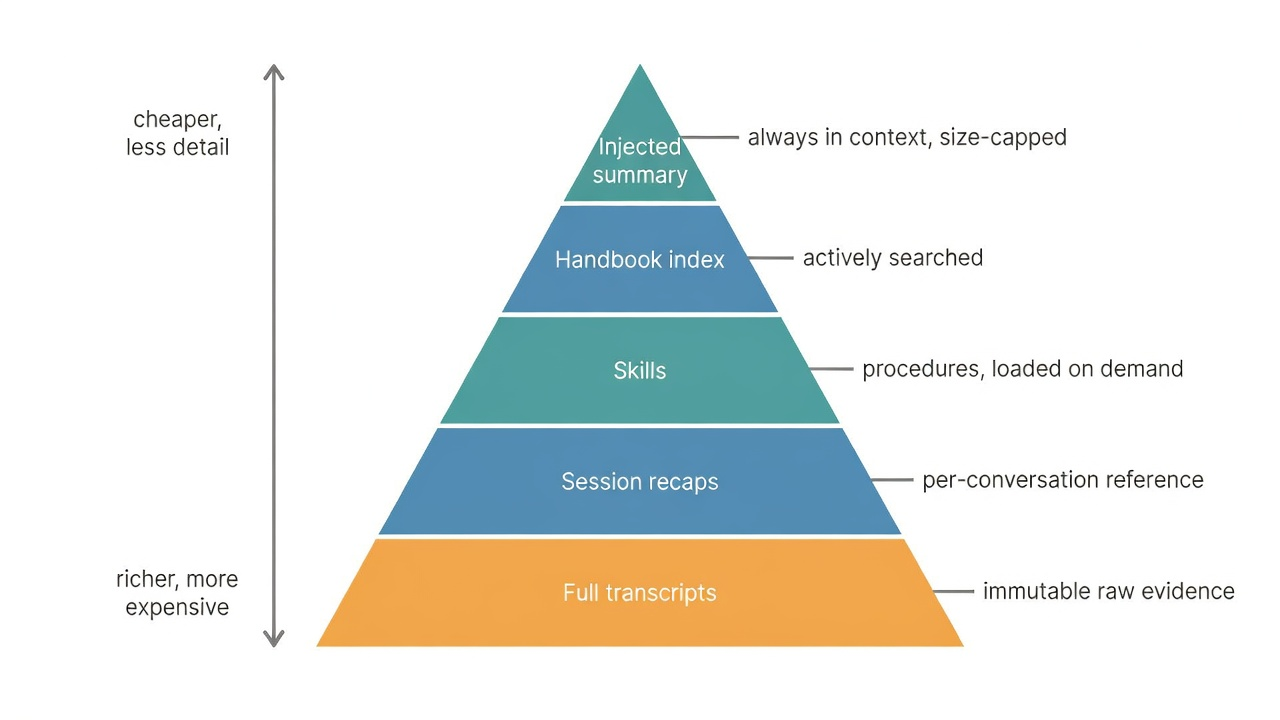
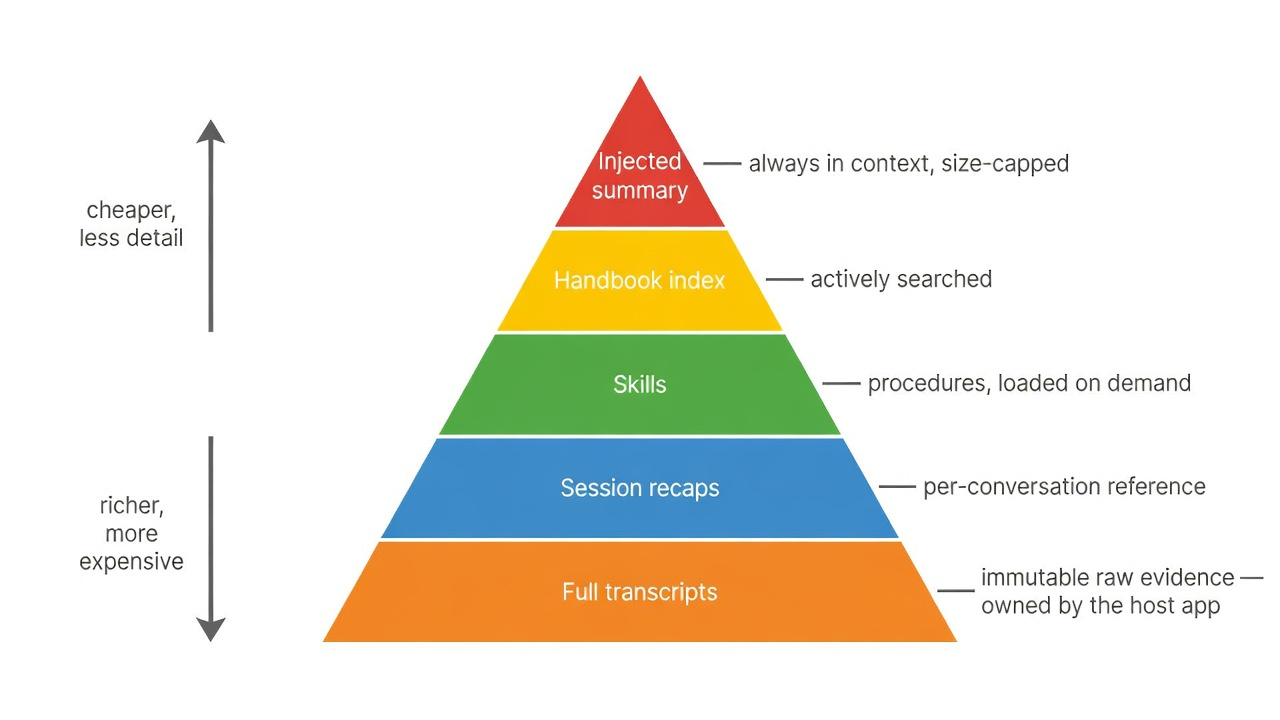
docs: regen pyramid with emoji-matched colors and layer ownership note

diff --git a/docs/how-ai-memory-works.md b/docs/how-ai-memory-works.md
@@ -60,19 +60,30 @@ expensive at the bottom:
 summary, always in context) to rich and expensive (full transcripts, immutable
 raw evidence).](memory-pyramid.jpeg)
 
-- **The injected summary** is the only layer the model pays for on every
+Layer colors at a glance: 🟥 top — injected summary · 🟨 handbook index ·
+🟩 skills · 🟦 session recaps · 🟠 base — full transcripts. The layer colors
+in the text below follow the diagram. The plugin manages the four upper
+layers; the 🟠 full transcripts at the base belong to the host application
+(OpenCode here, the Codex CLI in the original design) and are read-only input
+to the learning pipeline.
+
+- 🟥 **The injected summary** is the only layer the model pays for on every
   turn. It is deliberately tiny — capped at roughly 2,500 tokens (estimated;
   the cap matters more than the exact number).
-- **The handbook** is a single structured document that indexes everything
+- 🟨 **The handbook** is a single structured document that indexes everything
   worth keeping, grouped by task family, with searchable keywords. The model
   opens it when the summary hints that relevant knowledge exists.
-- **Skills** are reusable procedures: things the agent learned to do that are
-  worth repeating step by step.
-- **Session recaps** are one-per-conversation detailed notes — the reference
-  layer you open when you need the full story of *that one time we debugged
-  the deploy*.
-- **Full transcripts** belong to the host application, not the memory system.
-  They are read-only evidence for the learning pipeline and are never edited.
+- 🟩 **Skills** are reusable procedures: things the agent learned to do that
+  are worth repeating step by step.
+- 🟦 **Session recaps** are one-per-conversation detailed notes — the
+  reference layer you open when you need the full story of *that one time we
+  debugged the deploy*.
+- 🟠 **Full transcripts** are the raw evidence at the very bottom — complete
+  conversation logs. They are not managed by the memory system at all: they
+  are owned, written, and stored by the host application (OpenCode here; the
+  Codex CLI in the original design) and are only ever *read* by the learning
+  pipeline, never edited. The memory system's responsibility starts one layer
+  up, at the session recaps.
 
 This shape is called **progressive disclosure**: the model always carries the
 cheap overview, and descends into more expensive, more detailed layers only
